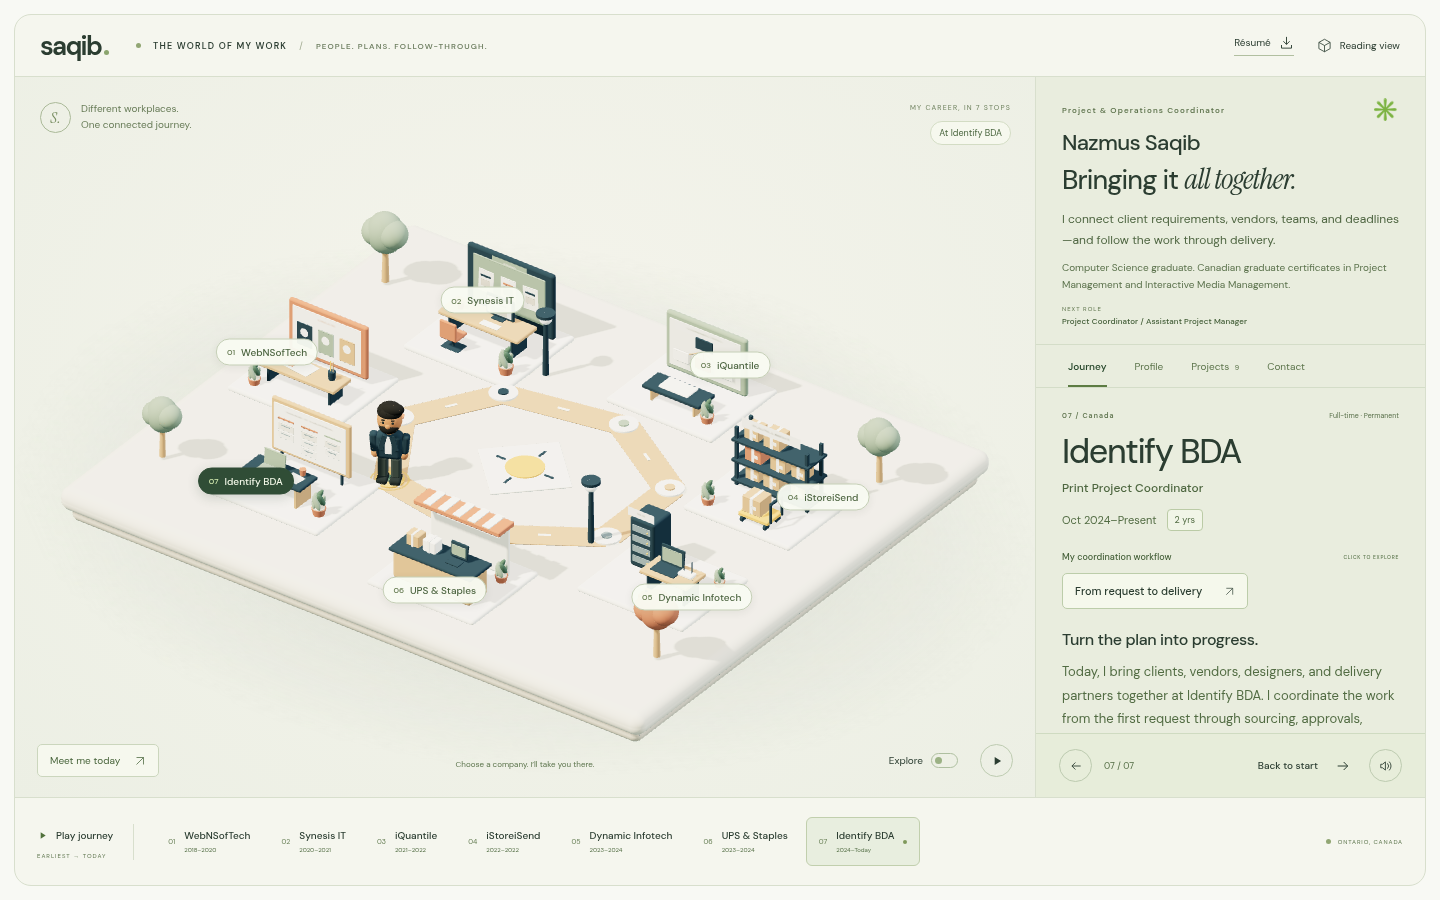
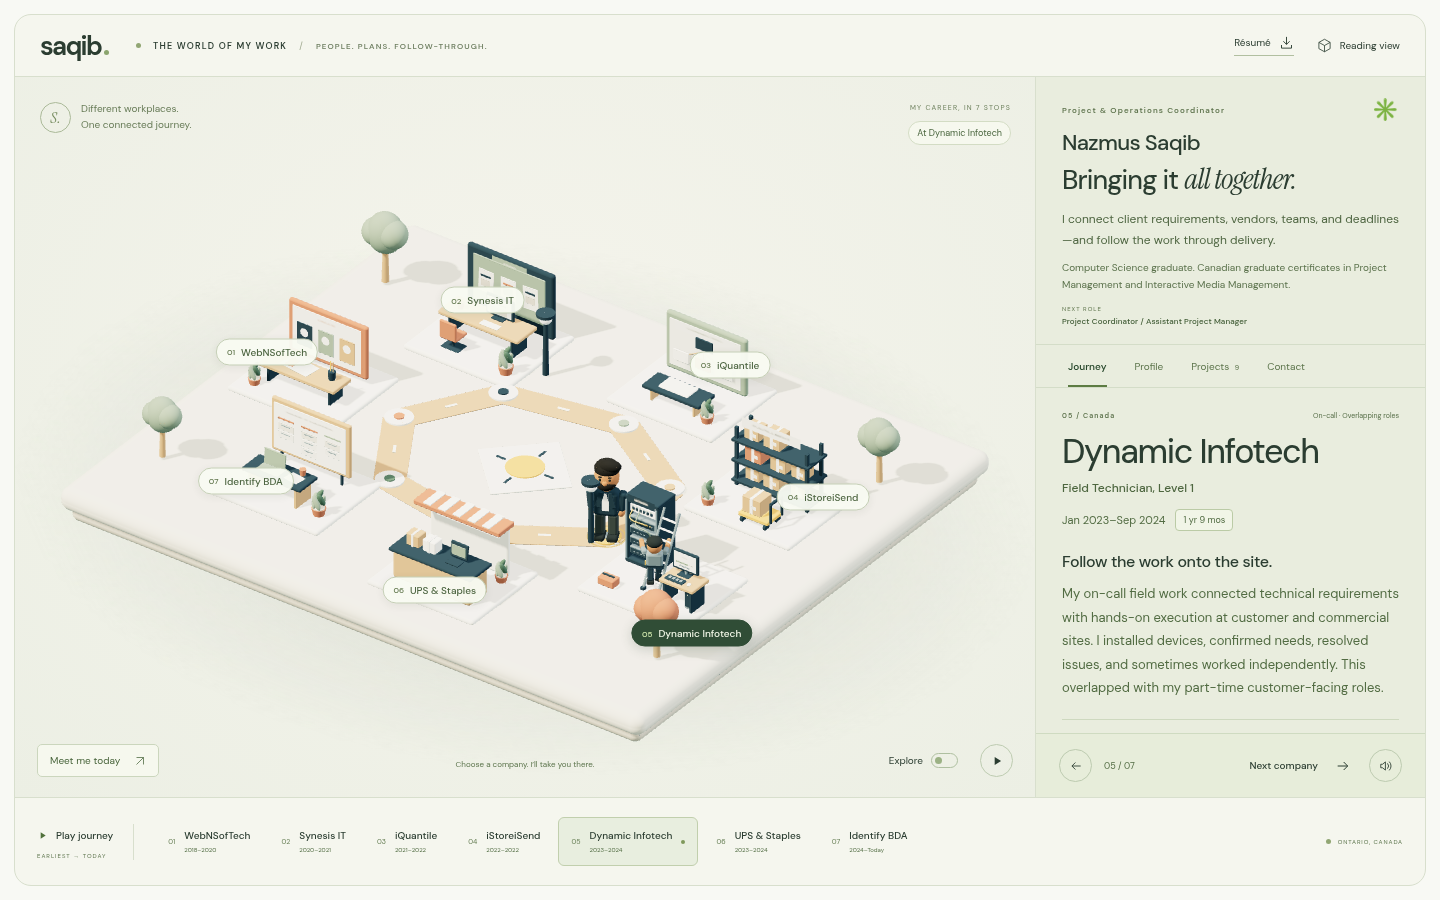
Add network technician workstation and server service scene

diff --git a/src/world.js b/src/world.js
@@ -163,7 +163,9 @@ export function createWorld({ container, onSelect = () => {}, onReady = () => {}
       company: station.company || station.label || defaultStations[index]?.company,
       position: [x * 5.05, 0, z * 4.05],
       stop: [x * 3.0, 0, z * 2.4],
-      labelAnchor: new THREE.Vector3(x * 6.15, 0.5, z * 5.0),
+      // The network workplace has a foreground technician; its label sits
+      // below the tile so it does not cover him or the ladder.
+      labelAnchor: new THREE.Vector3(x * 6.15, index === 4 ? -0.35 : 0.5, z * 5.0),
       color: ['terracotta', 'navy', 'sage', 'wood', 'gray', 'terracotta', 'moss'][index % 7],
     };
   });
@@ -300,25 +302,124 @@ export function createWorld({ container, onSelect = () => {}, onReady = () => {}
     plant(group, 1.05, 0.8, 0.8);
   }
 
-  // 05 — technical site work: equipment, a router, and an open service kit.
+  // 05 — network site work: desktop setup, live rack equipment and a service ladder.
+  let updateNetworkTechnician = () => {};
+  let networkWorkTime = 0;
   if (stationGroups[4]) {
     const group = stationGroups[4];
-    box(group, 0.75, 1.44, 0.78, -0.77, 1, -0.57, 'navy', 0.08);
-    [0.55, 0.85, 1.15, 1.45].forEach(y => {
-      box(group, 0.55, 0.19, 0.025, -0.77, y, -0.165, 'gray', 0.02);
-      sphere(group, 0.025, -0.57, y, -0.14, 'amber');
+    group.name = 'dynamic-infotech-network-workplace';
+
+    // The open-front rack makes switches, patch ports and server trays legible
+    // at the normal campus camera distance.
+    const rack = new THREE.Group(); rack.position.set(-0.82, 0, -0.62); group.add(rack);
+    rack.name = 'network-server-rack';
+    box(rack, 1.02, 0.13, 0.76, 0, 0.36, 0, 'navy');
+    box(rack, 1.02, 0.12, 0.76, 0, 2.22, 0, 'navy');
+    [-0.46, 0.46].forEach(x => {
+      box(rack, 0.1, 1.87, 0.72, x, 1.29, 0, 'navy', 0.02);
+      box(rack, 0.035, 1.75, 0.035, x, 1.28, 0.386, 'gray', 0.008);
     });
-    box(group, 1.45, 0.11, 0.85, 0.49, 0.89, 0.25, 'wood');
-    [-0.05, 1.04].forEach(x => box(group, 0.07, 0.58, 0.65, x, 0.55, 0.25, 'navy'));
-    const laptop = box(group, 0.71, 0.53, 0.045, 0.35, 1.22, 0.04, 'navy'); laptop.rotation.x = -0.11;
-    box(group, 0.6, 0.4, 0.018, 0.35, 1.23, 0.08, 'sage');
-    box(group, 0.73, 0.035, 0.48, 0.35, 0.97, 0.29, 'navy');
-    box(group, 0.43, 0.1, 0.26, 0.9, 1, 0.21, 'paper');
-    [-0.12, 0.12].forEach(x => cylinder(group, 0.013, 0.013, 0.36, 0.9 + x, 1.19, 0.17, 'navy', 8));
-    box(group, 0.62, 0.3, 0.4, 0.35, 0.42, 0.93, 'terracotta', 0.05);
-    lineBetween(group, [0.15, 0.6, 0.93], [0.55, 0.6, 0.93], 0.025, 'navy');
-    sign(group, 'SOLVE', 0.8, 0.25, -0.77, 1.9, -0.16, '#f5f1e5', '#263d48');
-    plant(group, 1.23, -0.71, 0.65);
+    box(rack, 0.84, 1.7, 0.045, 0, 1.28, -0.35, 'dark', 0.01);
+    [0.66, 0.96, 1.26, 1.56].forEach((y, row) => {
+      box(rack, 0.8, 0.22, 0.62, 0, y, 0.015, 'gray', 0.025);
+      box(rack, 0.73, 0.16, 0.026, 0, y, 0.34, 'navy', 0.015);
+      [-0.23, -0.13, -0.03, 0.07].forEach(x => box(rack, 0.055, 0.025, 0.012, x, y, 0.358, 'gray', 0.005));
+      sphere(rack, 0.023, 0.25, y + 0.025, 0.365, row % 2 ? 'amber' : 'sage');
+      sphere(rack, 0.016, 0.31, y + 0.025, 0.365, 'paper');
+    });
+    box(rack, 0.8, 0.23, 0.61, 0, 1.91, 0.01, 'paper', 0.025);
+    [-0.28, -0.17, -0.06, 0.05, 0.16, 0.27].forEach(x => {
+      box(rack, 0.065, 0.07, 0.025, x, 1.92, 0.33, 'navy', 0.008);
+      box(rack, 0.04, 0.015, 0.015, x, 2, 0.35, 'sage', 0.004);
+    });
+    const cable = (points, shade, radius = 0.018) => {
+      const curve = new THREE.CatmullRomCurve3(points.map(point => new THREE.Vector3(...point)));
+      const mesh = new THREE.Mesh(new THREE.TubeGeometry(curve, 20, radius, 6, false), materials[shade]);
+      mesh.castShadow = true; group.add(mesh);
+    };
+    cable([[-1.1, 1.91, -0.27], [-1.1, 1.72, -0.13], [-0.64, 1.7, -0.11], [-0.64, 1.58, -0.26]], 'amber');
+    cable([[-0.89, 1.91, -0.27], [-0.89, 1.62, -0.09], [-0.53, 1.55, -0.08], [-0.53, 1.26, -0.26]], 'sage');
+    cable([[-0.52, 0.64, -0.27], [-0.33, 0.41, -0.14], [0.35, 0.32, -0.1], [1.15, 0.42, 0.19]], 'navy', 0.023);
+    sign(rack, 'NETWORK', 0.83, 0.22, 0, 2.22, 0.392, '#263d48', '#fff9ed');
+
+    // A light aluminium ladder leans beside the open rack, with seven distinct
+    // rungs and rubber feet. It stays inside the original workplace footprint.
+    const ladder = new THREE.Group(); ladder.position.set(0.03, 0, -0.08); group.add(ladder);
+    ladder.name = 'server-service-ladder';
+    [-0.23, 0.23].forEach(x => {
+      lineBetween(ladder, [x, 0.34, 0.62], [x, 2.25, -0.28], 0.035, 'gray');
+      box(ladder, 0.11, 0.09, 0.13, x, 0.345, 0.62, 'navy', 0.02);
+    });
+    for (let i = 0; i < 7; i++) {
+      const amount = (i + 1) / 8;
+      lineBetween(ladder, [-0.23, 0.34 + amount * 1.91, 0.62 - amount * 0.9], [0.23, 0.34 + amount * 1.91, 0.62 - amount * 0.9], 0.032, 'paper');
+    }
+
+    // A desktop computer, keyboard, tower and setup screen explain the other
+    // half of the role without borrowing the laptop used by the UX workplaces.
+    box(group, 1.05, 0.11, 0.73, 0.99, 0.99, 0.47, 'wood');
+    [0.58, 1.39].forEach(x => box(group, 0.065, 0.62, 0.57, x, 0.62, 0.47, 'navy', 0.015));
+    box(group, 0.78, 0.58, 0.075, 0.93, 1.43, 0.29, 'navy', 0.045);
+    box(group, 0.67, 0.46, 0.018, 0.93, 1.44, 0.337, 'paper', 0.015);
+    box(group, 0.07, 0.14, 0.07, 0.93, 1.09, 0.29, 'gray');
+    box(group, 0.35, 0.025, 0.23, 0.93, 1.055, 0.33, 'navy');
+    box(group, 0.54, 0.035, 0.21, 0.87, 1.065, 0.66, 'navy', 0.015);
+    [-0.16, -0.05, 0.06, 0.17].forEach(x => box(group, 0.075, 0.012, 0.1, 0.87 + x, 1.089, 0.66, 'gray', 0.006));
+    sphere(group, 0.07, 1.29, 1.085, 0.67, 'paper', [0.7, 0.36, 1]);
+    box(group, 0.27, 0.55, 0.43, 1.27, 0.6, 0.44, 'gray', 0.035);
+    box(group, 0.19, 0.43, 0.025, 1.27, 0.62, 0.67, 'navy', 0.015);
+    sphere(group, 0.018, 1.27, 0.77, 0.691, 'sage');
+    sign(group, 'SETUP', 0.53, 0.14, 0.93, 1.55, 0.351, '#fff9ed', '#526f5c');
+    box(group, 0.5, 0.045, 0.015, 0.93, 1.4, 0.355, 'stone', 0.008);
+    box(group, 0.37, 0.045, 0.018, 0.865, 1.4, 0.367, 'sage', 0.008);
+    box(group, 0.32, 0.025, 0.012, 0.93, 1.3, 0.355, 'gray', 0.005);
+
+    // The site technician alternates between the keyboard and a low ladder
+    // rung to service the rack. His body is separate from the visiting avatar.
+    const technician = new THREE.Group(); group.add(technician);
+    technician.name = 'network-technician';
+    const body = new THREE.Group(); technician.add(body);
+    const legs = [-0.1, 0.1].map(x => {
+      const leg = new THREE.Group(); leg.position.set(x, 0.5, 0); body.add(leg);
+      box(leg, 0.15, 0.37, 0.17, 0, -0.19, 0, 'navy', 0.045);
+      box(leg, 0.18, 0.1, 0.27, 0, -0.43, 0.045, 'dark', 0.035);
+      return leg;
+    });
+    box(body, 0.42, 0.46, 0.26, 0, 0.75, 0, 'gray', 0.075);
+    box(body, 0.42, 0.09, 0.27, 0, 0.59, 0, 'navy', 0.025);
+    box(body, 0.075, 0.07, 0.024, -0.105, 0.83, 0.142, 'paper', 0.01);
+    box(body, 0.055, 0.14, 0.055, 0.22, 0.57, 0.05, 'amber', 0.012);
+    cylinder(body, 0.07, 0.075, 0.11, 0, 1.02, 0, 'skin');
+    sphere(body, 0.215, 0, 1.19, 0, 'skin', [0.92, 1.05, 0.9]);
+    sphere(body, 0.205, 0, 1.32, -0.015, 'dark', [0.99, 0.58, 0.97]);
+    sphere(body, 0.055, 0, 1.17, 0.18, 'skin', [0.7, 0.8, 0.7]);
+    [-0.07, 0.07].forEach(x => sphere(body, 0.019, x, 1.22, 0.183, 'dark', [1, 0.85, 0.5]));
+    const arms = [-1, 1].map(side => {
+      const arm = new THREE.Group(); arm.position.set(side * 0.25, 0.94, 0); body.add(arm);
+      box(arm, 0.13, 0.25, 0.15, 0, -0.11, 0, 'gray', 0.05);
+      const elbow = new THREE.Group(); elbow.position.y = -0.22; arm.add(elbow);
+      box(elbow, 0.12, 0.22, 0.135, 0, -0.1, 0, 'skin', 0.04);
+      sphere(elbow, 0.07, 0, -0.23, 0.01, 'skin', [0.9, 1, 0.8]);
+      return { arm, elbow, side };
+    });
+    updateNetworkTechnician = time => {
+      const phase = (time + 8) % 15;
+      const toRack = phase < 5 ? 0 : phase < 7 ? (phase - 5) / 2 : phase < 12 ? 1 : (15 - phase) / 3;
+      const blend = THREE.MathUtils.smoothstep(toRack, 0, 1);
+      const walking = phase >= 5 && phase < 7 || phase >= 12;
+      technician.position.set(0.82 - blend * 0.82, 0.305 + blend * 0.2, 1.06 - blend * 0.73);
+      technician.rotation.y = Math.PI + blend * 0.59;
+      body.rotation.x = -0.06 - blend * 0.08;
+      legs.forEach((leg, index) => leg.rotation.x = walking ? Math.sin(time * 9 + index * Math.PI) * 0.23 : index ? blend * 0.32 : 0);
+      arms.forEach(({ arm, elbow, side }, index) => {
+        arm.rotation.x = -1.02 - blend * 0.37 + Math.sin(time * 4 + index) * 0.035;
+        arm.rotation.z = side * (0.08 + blend * 0.14);
+        elbow.rotation.x = -0.48 + Math.sin(time * 3.5 + index * 1.7) * 0.06;
+      });
+    };
+    updateNetworkTechnician(0);
+    box(group, 0.48, 0.22, 0.32, -1.02, 0.43, 0.87, 'terracotta', 0.04);
+    lineBetween(group, [-1.19, 0.58, 0.87], [-0.85, 0.58, 0.87], 0.023, 'navy');
   }
 
   // 06 — customer service: a retail counter, parcel shelving, and point of sale.
@@ -473,10 +574,20 @@ export function createWorld({ container, onSelect = () => {}, onReady = () => {}
   }
   const resizeObserver = new ResizeObserver(resize); resizeObserver.observe(container);
 
+  function updateCanvasDescription() {
+    const controls = exploring
+      ? 'Explore Saqib’s career world. Move using the arrow keys or W, A, S and D.'
+      : 'A three-dimensional world of Saqib’s career. Choose a company button to move between workplaces.';
+    const workplace = activeIndex === 4
+      ? ' At Dynamic Infotech, a network technician sets up a desktop computer and services a server rack beside a ladder.'
+      : '';
+    canvas.setAttribute('aria-label', controls + workplace);
+  }
   function select(index) {
     activeIndex = Math.max(0, Math.min(stationData.length - 1, Number(index) || 0));
     container.dataset.activeCompany = stationData[activeIndex].company;
     container.dataset.activeStation = String(activeIndex);
+    updateCanvasDescription();
     labels.forEach((label, i) => label.classList.toggle('is-active', i === activeIndex));
     markers.forEach((marker, i) => marker.material = i === activeIndex ? materials.amber : materials.chalk);
     const destination = new THREE.Vector3(...stationData[activeIndex].stop); destination.y = 0.08;
@@ -624,6 +735,8 @@ export function createWorld({ container, onSelect = () => {}, onReady = () => {}
         marker.scale.set(scale, 1, scale);
       });
     }
+    networkWorkTime += delta;
+    updateNetworkTechnician(networkWorkTime);
     checkStation(); renderOnce();
   }
   resize(); select(0); animate(); onReady();
@@ -645,7 +758,7 @@ export function createWorld({ container, onSelect = () => {}, onReady = () => {}
     setExploring(value) {
       exploring = !!value; clearKeys();
       if (exploring) { walkPath = []; container.dataset.traveling = 'false'; }
-      canvas.setAttribute('aria-label', exploring ? 'Explore Saqib’s career world. Move using the arrow keys or W, A, S and D. Visit the company workplaces to discover each role.' : 'A three-dimensional world of Saqib’s career. Choose a company button to move between workplaces.');
+      updateCanvasDescription();
       if (exploring) canvas.focus({ preventScroll: true });
     },
     move,

diff --git a/README.md b/README.md
@@ -54,7 +54,7 @@ For a local Pages-path regression check, serve the build with `npm run preview -
 
 - `src/content.js`: employer chronology, professional summary, tenure formatting, project stories, skills, education, and credentials. Ended roles count the supplied calendar months; current-role tenure uses elapsed months in the current Toronto month. Dynamic Infotech and UPS/Staples are explicitly identified as overlapping roles.
 - `src/main.js`: interface and interactions; public contact email.
-- `src/world.js`: locally generated character and environment; no external model downloads.
+- `src/world.js`: locally generated character and environment; no external model downloads. The Dynamic Infotech workplace depicts a technician setting up a desktop computer and servicing a cabled server rack, with a ladder beside the equipment. Its work animation follows the same pause and reduced-motion controls as the rest of the scene.
 - `src/styles.css`: responsive interface styling.
 - `src/project-view.js` and `src/project-view.css`: reusable project previews and case-study presentation inside the viewport.
 - `public/projects/`: optimized previews from supplied project files. Original career records, project source files, and confidential documents are **not** public assets.
